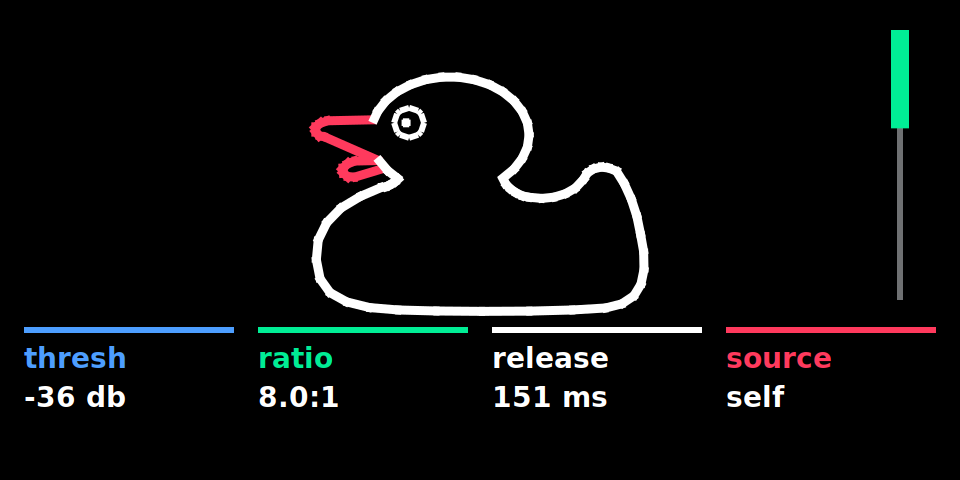
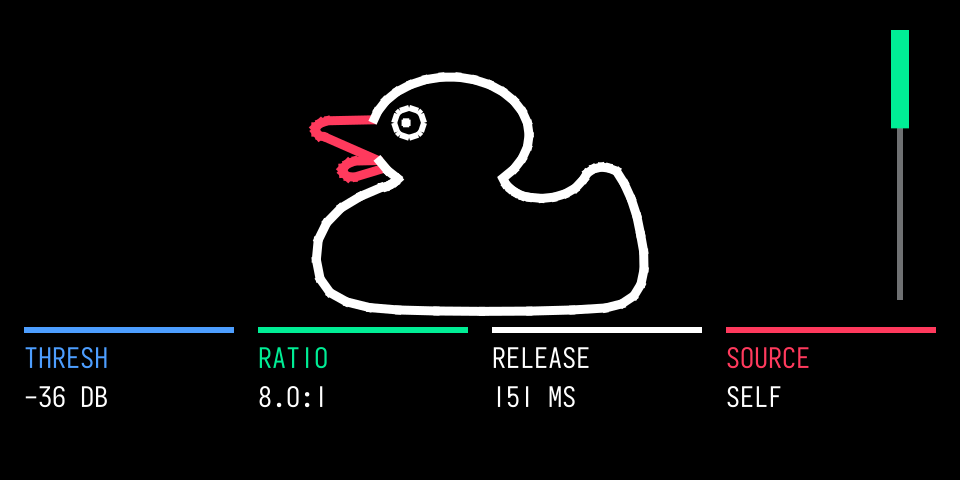
README: screenshots with Iosevka text (no stock font), nostromo / granular / monitor screenshots updated

diff --git a/README.md b/README.md
@@ -244,7 +244,8 @@ with:
 
 ## Screens
 
-Rendered on the PC from the same screen code that runs on the OP-1 (host harness in the synth SDK).
+Rendered on the PC from the same screen code that runs on the OP-1 (host harness in the synth SDK). Text that the
+OP-1 draws in its own font is shown in [Iosevka](https://github.com/be5invis/Iosevka) (SIL Open Font License 1.1).
 
 | Synth engines | |
 |---|---|
@@ -389,4 +390,5 @@ Releases from op1r 27 on are built from it.
 
 Not covered: the Teenage Engineering firmware (never included here) and the Oblique Strategies card texts (Brian Eno
 and Peter Schmidt). Third-party parts (MIT): Mutable Instruments Clouds / Elements reverb ports (Emilie Gillet),
-op1repacker's iter-lab.svg and LZMA settings (op1hacks), svgfont.py (Martin Mairinger). Details in [NOTICE](NOTICE).
+op1repacker's iter-lab.svg and LZMA settings (op1hacks), svgfont.py (Martin Mairinger). Screenshot text: Iosevka (Renzhi
+Li, SIL OFL 1.1). Details in [NOTICE](NOTICE).
